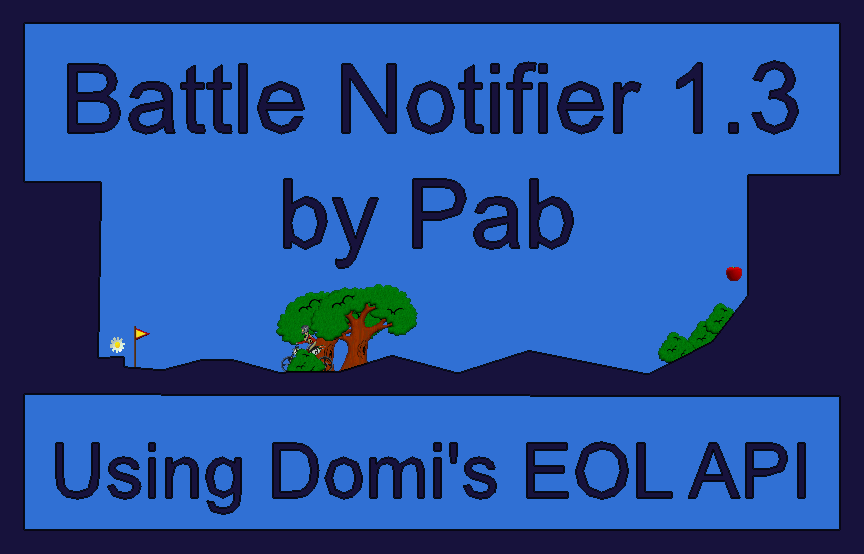
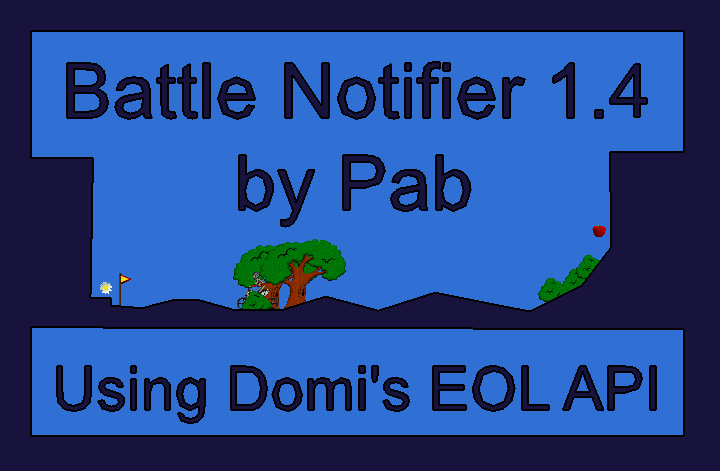
New version 1.4. New about.png. Added OneHourtTTMap to fix bug: 1htt battle is showing previous battle map. Fixed windows startup registry on settings upgrade. Fixed windows startup registry on settings panel. Added feature: start minimized on windows startup.

Changed region(s): [[0.0306, 0.0297, 0.9778, 0.9809], [0.3056, 0.2972, 0.6722, 0.4756]]

diff --git a/BattleNotifier/Program.cs b/BattleNotifier/Program.cs
@@ -2,17 +2,21 @@
 using System.Windows.Forms;
 using BattleNotifier.View;
 using System.Threading;
+using System.Linq;
 
 namespace BattleNotifier
 {
     static class Program
     {
         private static string appGuid = "588f985a-c0f5-4179-8118-5d79381f2c8a";
+
+        public static bool LaunchedViaStartup { get; set; }
+
         /// <summary>
         /// The main entry point for the application.
         /// </summary>
         [STAThread]
-        static void Main()
+        static void Main(string[] args)
         {
             using (Mutex mutex = new Mutex(false, appGuid))
             {
@@ -22,13 +26,15 @@ namespace BattleNotifier
                     return;
                 }
 
+                LaunchedViaStartup = args != null && args.Any(arg => arg.Equals("/startminimized", StringComparison.CurrentCultureIgnoreCase));
+
                 Application.EnableVisualStyles();
                 Application.SetCompatibleTextRenderingDefault(false);
 
-                AppDomain.CurrentDomain.AssemblyResolve += (Object sender, ResolveEventArgs args) =>
+                AppDomain.CurrentDomain.AssemblyResolve += (Object sender, ResolveEventArgs reargs) =>
                 {
                     string thisExe = System.Reflection.Assembly.GetExecutingAssembly().GetName().Name;
-                    System.Reflection.AssemblyName embeddedAssembly = new System.Reflection.AssemblyName(args.Name);
+                    System.Reflection.AssemblyName embeddedAssembly = new System.Reflection.AssemblyName(reargs.Name);
                     string resourceName = thisExe + "." + embeddedAssembly.Name + ".dll";
 
                     using (var stream = System.Reflection.Assembly.GetExecutingAssembly().GetManifestResourceStream(resourceName))

diff --git a/BattleNotifier/View/SettingsPanel.cs b/BattleNotifier/View/SettingsPanel.cs
@@ -30,6 +30,11 @@ namespace BattleNotifier.View
                 ShowOnTopCheckBox.Checked = true;
         }
 
+        public void UpdateRunOnWinStartupRegistryKey()
+        {
+            RunOnWinStartupCheckBox_MouseUp(null, null);
+        }
+
         #region Helping descriptions
 
         private void InitializeHelpDescriptions()
@@ -168,15 +173,10 @@ namespace BattleNotifier.View
                 bool registered = rk.GetValue(thisExe) == null ? false : true;
 
                 if (registered)
-                {
-                    rk.DeleteValue(thisExe, false);
-                    RunOnWinStartupCheckBox.Checked = false;
-                }
-                else
-                {
-                    rk.SetValue(thisExe, Application.ExecutablePath.ToString());
-                    RunOnWinStartupCheckBox.Checked = true;
-                }
+                    UnregisterFromWinStartup();
+
+                if (RunOnWinStartupCheckBox.Checked)
+                    RegisterToWinStartup();
             }
             catch (Exception ex)
             {
@@ -184,6 +184,16 @@ namespace BattleNotifier.View
                 RunOnWinStartupCheckBox.Checked = false;
                 Logger.Log(700, ex);
             }
+        }
+
+        private void RegisterToWinStartup()
+        {
+            rk.SetValue(thisExe, "\"" + Application.ExecutablePath.ToString() + "\" /startminimized");
+        }
+
+        private void UnregisterFromWinStartup()
+        {
+            rk.DeleteValue(thisExe, false);
         }
 
         private void ShowOnTopCheckBox_CheckedChanged(object sender, EventArgs e)

diff --git a/BattleNotifier/Controller/NotificationsController.cs b/BattleNotifier/Controller/NotificationsController.cs
@@ -83,7 +83,6 @@ namespace BattleNotifier.Controller
             catch (Exception ex)
             {
                 Logger.Log(201, ex);
-                // Nothing happend here, no one saw anything. Get back to work.
             }
         }
 
@@ -208,8 +207,8 @@ namespace BattleNotifier.Controller
         {
             try
             {
-                if (battle.Type.HasFlag(BattleType.OneHourTT))
-                    Map = (Image)Properties.Resources.about;
+                if (battle.Type.HasFlag(BattleType.OneHourTT) && !simulation)
+                    Map = Properties.Resources.OneHourTTMap;
                 else if (!showCurrent || downloadCurrentMap || Map == null || !battle.MapId.Equals(lastLoadedMapId))
                 {
                     downloadCurrentMap = false;
@@ -226,7 +225,7 @@ namespace BattleNotifier.Controller
                 }
                 else
                     downloadCurrentMap = true;
-                Map = (Image)Properties.Resources.about;
+                Map = Properties.Resources.about;
             }
 
             return true;

diff --git a/BattleNotifier/Properties/Resources.Designer.cs b/BattleNotifier/Properties/Resources.Designer.cs
@@ -1,7 +1,7 @@
 //------------------------------------------------------------------------------
 // <auto-generated>
 //     This code was generated by a tool.
-//     Runtime Version:4.0.30319.0
+//     Runtime Version:4.0.30319.42000
 //
 //     Changes to this file may cause incorrect behavior and will be lost if
 //     the code is regenerated.
@@ -133,6 +133,16 @@ namespace BattleNotifier.Properties {
         internal static System.Drawing.Bitmap minimize {
             get {
                 object obj = ResourceManager.GetObject("minimize", resourceCulture);
+                return ((System.Drawing.Bitmap)(obj));
+            }
+        }
+        
+        /// <summary>
+        ///   Looks up a localized resource of type System.Drawing.Bitmap.
+        /// </summary>
+        internal static System.Drawing.Bitmap OneHourTTMap {
+            get {
+                object obj = ResourceManager.GetObject("OneHourTTMap", resourceCulture);
                 return ((System.Drawing.Bitmap)(obj));
             }
         }

diff --git a/BattleNotifier/View/Main.cs b/BattleNotifier/View/Main.cs
@@ -29,6 +29,10 @@ namespace BattleNotifier.View
             InitializeNotifyIcon();
             CenterToScreen();
 
+            // Started from Windows startup, launch minimized.
+            if (Program.LaunchedViaStartup)
+                WindowState = FormWindowState.Minimized;
+
             // Initialize battle controller.
             BattleNotifierController.InitializeBattleNotifierController(this);
             battleNotifier = BattleNotifierController.Instance;
@@ -47,6 +51,7 @@ namespace BattleNotifier.View
             if (UserSettings.Instance.MustNotifyOnStartup())
                 mainPanel.NotificateBattles();
 
+            settingsPanel.UpdateRunOnWinStartupRegistryKey();
             RegisterCurrentBattleHotkeyFromPanel();
         }
 

diff --git a/BattleNotifier/Properties/AssemblyInfo.cs b/BattleNotifier/Properties/AssemblyInfo.cs
@@ -32,5 +32,5 @@ using System.Runtime.InteropServices;
 // You can specify all the values or you can default the Build and Revision Numbers 
 // by using the '*' as shown below:
 // [assembly: AssemblyVersion("1.0.*")]
-[assembly: AssemblyVersion("1.3.0.0")]
-[assembly: AssemblyFileVersion("1.3.0.0")]
+[assembly: AssemblyVersion("1.4.0.0")]
+[assembly: AssemblyFileVersion("1.4.0.0")]
